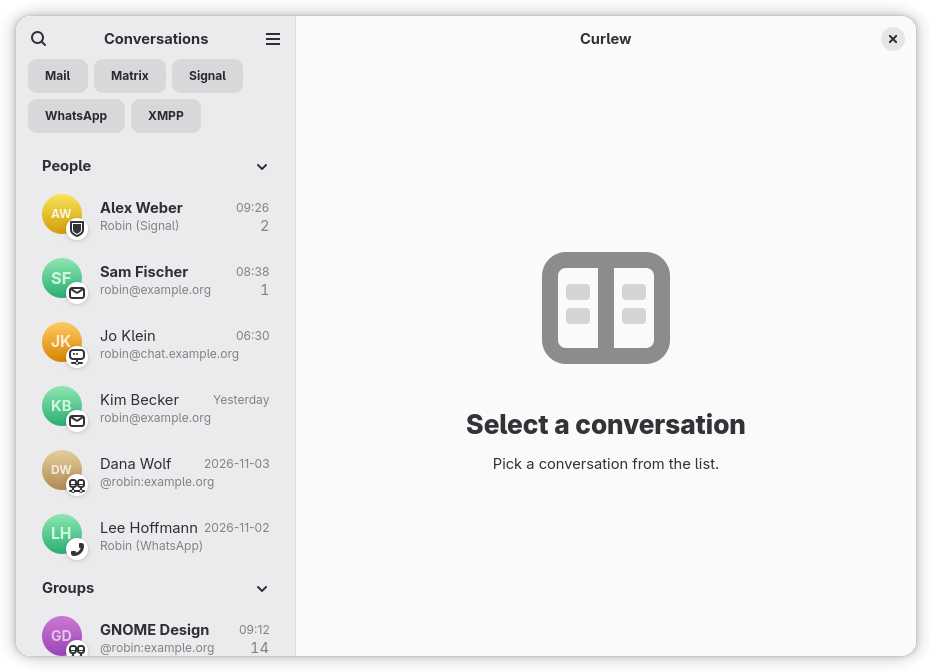
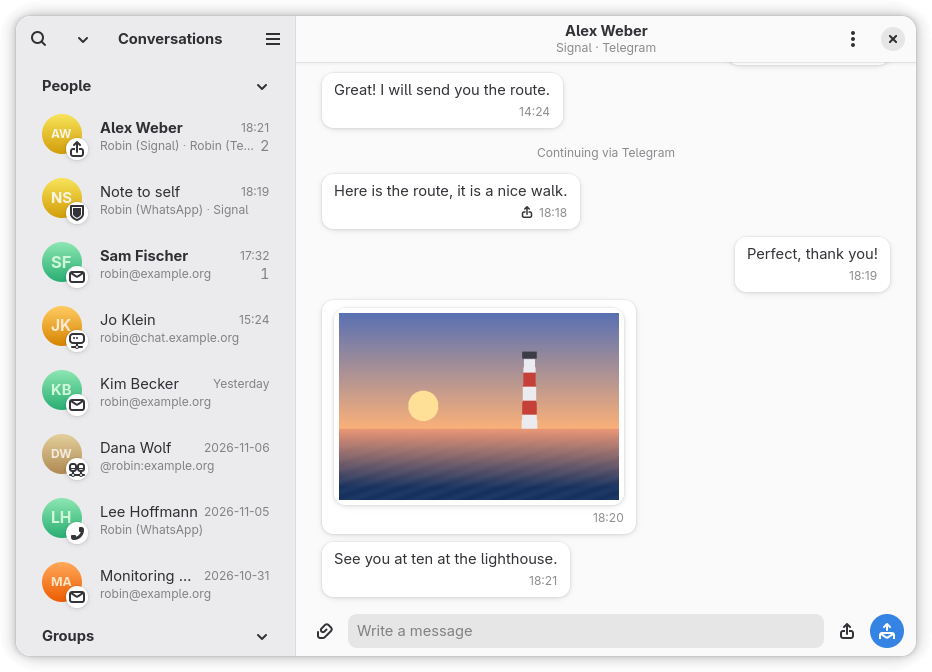
fix(window): fit pictures in a 360 px bubble
A bubble picture asked for 420 px as a minimum, so a phone-wide window cut off the bubble, the header and the composer. Cap it at 280 px. The store screenshots now show the merged Alex Weber chat with a picture, and the metainfo carries the German images.

diff --git a/app/scripts/demo-index.ts b/app/scripts/demo-index.ts
@@ -11,15 +11,54 @@ import { mkdirSync, writeFileSync } from 'node:fs';
 import { join } from 'node:path';
 import { deflateSync } from 'node:zlib';
 
+/** A harbour at dusk: sky, sun, sea and a lighthouse, drawn pixel by pixel. */
+function harbourScene(width: number, height: number): Buffer {
+  const horizon = Math.round(height * 0.62);
+  const towerX = Math.round(width * 0.68);
+  return demoPng(width, height, (x, y) => {
+    const mix = (a: number[], b: number[], t: number): [number, number, number] => [
+      Math.round(a[0]! + (b[0]! - a[0]!) * t),
+      Math.round(a[1]! + (b[1]! - a[1]!) * t),
+      Math.round(a[2]! + (b[2]! - a[2]!) * t),
+    ];
+    const lean = (y - horizon) / (height * 0.5);
+    const half = 9 + Math.round(((y - horizon + 120) / 120) * 4);
+    if (y < horizon && Math.abs(x - towerX) <= half && y > horizon - 120 && y < horizon + 4) {
+      return Math.floor((y - (horizon - 120)) / 24) % 2 === 0 ? [236, 236, 240] : [196, 64, 56];
+    }
+    if (y < horizon && y >= horizon - 132 && y < horizon - 120 && Math.abs(x - towerX) <= 12)
+      return [60, 60, 70];
+    if (y < horizon) {
+      const sun = Math.hypot(x - width * 0.3, y - horizon * 0.8);
+      if (sun < 26) return [255, 224, 150];
+      return mix([88, 112, 178], [250, 176, 120], y / horizon);
+    }
+    const ripple = Math.sin(x / 9 + y / 3) * 6 * Math.max(lean, 0.1);
+    const base = mix([234, 150, 118], [26, 52, 98], Math.min(1, lean * 1.6));
+    return [base[0] + ripple, base[1] + ripple, base[2] + ripple].map((v) =>
+      Math.max(0, Math.min(255, Math.round(v))),
+    ) as [number, number, number];
+  });
+}
+
 /** A small RGB gradient PNG, made here so the demo needs no file or network. */
-function demoPng(width: number, height: number): Buffer {
+function demoPng(
+  width: number,
+  height: number,
+  pixel: (x: number, y: number) => [number, number, number] = (x, y) => [
+    Math.round((x / width) * 200) + 30,
+    Math.round((y / height) * 160) + 70,
+    90 + (((x >> 5) + (y >> 5)) % 2) * 60,
+  ],
+): Buffer {
   const raw = Buffer.alloc((width * 3 + 1) * height);
   for (let y = 0; y < height; y++) {
     const row = y * (width * 3 + 1);
     for (let x = 0; x < width; x++) {
-      raw[row + 1 + x * 3] = Math.round((x / width) * 200) + 30;
-      raw[row + 2 + x * 3] = Math.round((y / height) * 160) + 70;
-      raw[row + 3 + x * 3] = 90 + (((x >> 5) + (y >> 5)) % 2) * 60;
+      const [r, g, b] = pixel(x, y);
+      raw[row + 1 + x * 3] = r;
+      raw[row + 2 + x * 3] = g;
+      raw[row + 3 + x * 3] = b;
     }
   }
   const chunk = (type: string, data: Buffer): Buffer => {
@@ -76,6 +115,7 @@ const ACCOUNTS: Array<[id: string, identity: string]> = [
   ['xmpp-demo1', 'robin@chat.example.org'],
   ['signal-demo1', 'Robin (Signal)'],
   ['matrix-demo1', '@robin:example.org'],
+  ['telegram-demo1', 'Robin (Telegram)'],
   ['whatsapp-demo1', 'Robin (WhatsApp)'],
 ];
 
@@ -102,6 +142,7 @@ const CONVERSATIONS: Row[] = [
   ['c11', 'mail', 'mail-demo1', 'direct', 'Monitoring Alerts', 60 * 200, 0],
   ['c13', 'matrix', 'matrix-demo1', 'group', 'Release planning', 25, 0],
   ['c14', 'matrix', 'matrix-demo1', 'group', 'Security team', 35, 0],
+  ['c16', 'telegram', 'telegram-demo1', 'direct', 'Alex Weber', 3, 0],
   ['c15', 'whatsapp', 'whatsapp-demo1', 'direct', 'Robin', 7, 0],
   ['c12', 'signal', 'signal-0b8e1c2a-1111-4222-8333-444455556666', 'direct', '', 5, 0],
 ];
@@ -148,6 +189,7 @@ try {
     ['c15', 'p-robin-wa', 'Robin', 'whatsapp', '4915100000000@s.whatsapp.net'],
     ['c5', 'p-jo', 'Jo Klein', 'jid', 'jo@chat.example.org'],
     ['c1', 'p-alex', 'Alex Weber', 'signal', '1f0c6a52-2222-4333-8444-555566667777'],
+    ['c16', 'p-alex', 'Alex Weber', 'telegram', '424242'],
     ['c2', 'p-mia', 'Mia Schulz', 'matrix', '@mia:example.org'],
     ['c2', 'p-noah', 'Noah Braun', 'matrix', '@noah:example.org'],
   ]) {
@@ -159,6 +201,7 @@ try {
 
   const PEOPLE = new Map([
     ['p-sam', ['p-sam', 'Sam Fischer', 'email', 'sam@example.org']],
+    ['p-alex', ['p-alex', 'Alex Weber', 'signal', '1f0c6a52-2222-4333-8444-555566667777']],
     ['p-jo', ['p-jo', 'Jo Klein', 'jid', 'jo@chat.example.org']],
     ['p-mia', ['p-mia', 'Mia Schulz', 'matrix', '@mia:example.org']],
     ['p-noah', ['p-noah', 'Noah Braun', 'matrix', '@noah:example.org']],
@@ -182,6 +225,12 @@ try {
     ['c2', true, 100, 'Looks great, thanks!', null],
     ['c2', false, 30, 'Can we ship it with the next release?', null],
     ['c2', false, 18, 'Noah, what do you think?', null],
+    ['c1', false, 60 * 5, 'Are you coming to the harbour on Sunday?', null],
+    ['c1', true, 60 * 5 - 2, 'Yes, I would love to.', null],
+    ['c1', false, 60 * 4, 'Great! I will send you the route.', null],
+    ['c16', false, 6, 'Here is the route, it is a nice walk.', null],
+    ['c16', true, 5, 'Perfect, thank you!', null],
+    ['c16', false, 3, 'See you at ten at the lighthouse.', null],
     ['c15', true, 9, 'Remember: passport renewal appointment', null],
     ['c15', true, 7, 'https://example.org/forms/passport', null],
     ['c14', false, 35, 'Rotating the keys on Friday.', null],
@@ -209,13 +258,15 @@ try {
       ? null
       : conversationId === 'c3'
         ? 'p-sam'
-        : conversationId === 'c14'
-          ? 'p-mia'
-          : conversationId === 'c2'
-            ? text.startsWith('Can')
-              ? 'p-noah'
-              : 'p-mia'
-            : 'p-jo';
+        : conversationId === 'c1' || conversationId === 'c16'
+          ? 'p-alex'
+          : conversationId === 'c14'
+            ? 'p-mia'
+            : conversationId === 'c2'
+              ? text.startsWith('Can')
+                ? 'p-noah'
+                : 'p-mia'
+              : 'p-jo';
     const at = new Date(now - minutesAgo * 60_000).toISOString();
     const mail = backend === 'mail';
     const n = i + 1;
@@ -285,6 +336,40 @@ try {
     const cache = join(dir, 'previews', createHash('sha256').update(key).digest('hex'));
     mkdirSync(cache, { recursive: true });
     writeFileSync(join(cache, 'garden-beds.png'), png);
+  }
+
+  // A picture in a Telegram chat, cached where a finished download would sit.
+  {
+    const n = 600;
+    const at = new Date(now - 4 * 60_000).toISOString();
+    message.run(
+      `m${n}`,
+      'c16',
+      'telegram',
+      'telegram-demo1',
+      'p-alex',
+      0,
+      at,
+      null,
+      `r${n}`,
+      '',
+      0,
+      null,
+      null,
+      n,
+    );
+    db.prepare(
+      'UPDATE conversation_messages SET sender_name = ?, sender_kind = ?, sender_address = ?, has_attachments = 1 WHERE id = ?',
+    ).run('Alex Weber', 'telegram', '424242', `m${n}`);
+    const png = harbourScene(480, 320);
+    db.prepare(
+      `INSERT OR REPLACE INTO message_attachments (message_id, idx, filename, mime_type, size, kind, width, height, handle)
+       VALUES (?, 0, 'harbour.png', 'image/png', ?, 'image', 480, 320, 'demo-handle')`,
+    ).run(`m${n}`, png.length);
+    const key = ['telegram-demo1', '', '', `r${n}`, '0'].join('\u0000');
+    const cache = join(dir, 'previews', createHash('sha256').update(key).digest('hex'));
+    mkdirSync(cache, { recursive: true });
+    writeFileSync(join(cache, 'harbour.png'), png);
   }
 
   // A long mail conversation (130 messages over several days, some with multi-paragraph bodies)

diff --git a/app/tests/unit/window/attachment-model.test.ts b/app/tests/unit/window/attachment-model.test.ts
@@ -139,14 +139,14 @@ export default async () => {
       expect(boundedSize({ width: 100, height: 50 })).toStrictEqual({ width: 100, height: 50 });
     });
 
-    await it('bounds the height and keeps the ratio', async () => {
-      expect(boundedSize({ width: 600, height: 600 })).toStrictEqual({ width: 300, height: 300 });
+    await it('bounds the box and keeps the ratio', async () => {
+      expect(boundedSize({ width: 600, height: 600 })).toStrictEqual({ width: 280, height: 280 });
       expect(boundedSize({ width: 1000, height: 100 }, 400, 300)).toStrictEqual({ width: 400, height: 40 });
     });
 
     await it('never collapses to zero and falls back for a bad size', async () => {
       expect(boundedSize({ width: 100000, height: 1 }, 400, 300).height).toBe(1);
-      expect(boundedSize({ width: 0, height: 0 })).toStrictEqual({ width: 420, height: 150 });
+      expect(boundedSize({ width: 0, height: 0 })).toStrictEqual({ width: 280, height: 150 });
     });
   });
 

diff --git a/app/src/window/attachment-model.ts b/app/src/window/attachment-model.ts
@@ -90,8 +90,12 @@ export function tileAction(kind: AttachmentKind): 'view' | 'open' {
   return kind === 'video' ? 'view' : 'open';
 }
 
+/**
+ * A picture in a bubble is laid out with a size request, which is a minimum: a wider one would keep
+ * the window from going narrower. 280 px plus the bubble's margins fits a 360 px phone screen.
+ */
 export const BUBBLE_MAX_IMAGE_HEIGHT = 300;
-export const BUBBLE_MAX_IMAGE_WIDTH = 420;
+export const BUBBLE_MAX_IMAGE_WIDTH = 280;
 
 export interface Size {
   width: number;

diff --git a/README.md b/README.md
@@ -908,11 +908,14 @@ shows a window). The sidebar is one read-only list of every conversation from th
 whatever the messenger, in collapsible sections *People* and *Groups*. Each row shows an avatar with
 a small protocol badge, the title (bold while unread), the protocol and account, and a grey unread
 count. Filter chips narrow it by protocol (and by account, once a protocol with several is
-chosen); the search button filters by name. Reading and writing a conversation is not built yet.
-At 720 sp and narrower the window collapses to one pane, down to 360 px wide. The layout rules and
+chosen); the search button filters by name. One person with several messengers is one row and
+one chat, whichever protocol a message came by. Pictures show in the bubble; other files open from
+a tile. At 720 sp and narrower the window collapses to one pane, down to 360 px wide. The layout rules and
 their role models are in [`docs/design/ui.md`](docs/design/ui.md).
 
-![The conversation list](docs/screenshots/conversations.png)
+![A conversation with a person who writes on two messengers](docs/screenshots/conversations.png)
+
+![The same conversation at 360 px wide](docs/screenshots/conversation-narrow.png)
 
 **Agent access** is not a main area: it opens from the primary menu as a dialog. It lists the
 rules grouped by account, with `Name (address)` where the index knows the contact and *Whole
